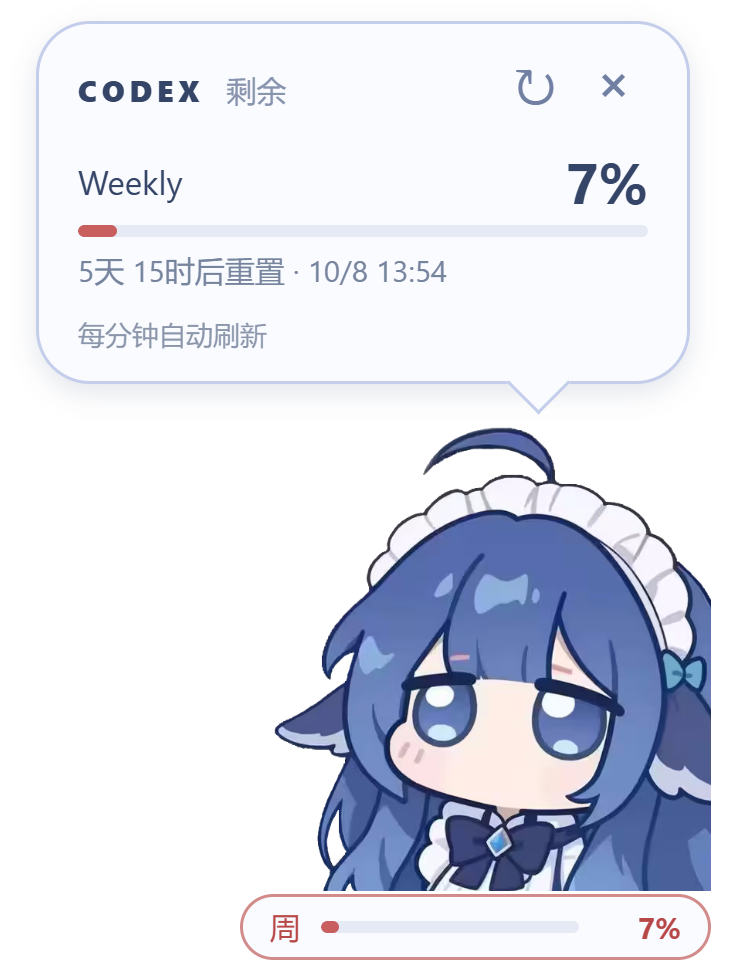
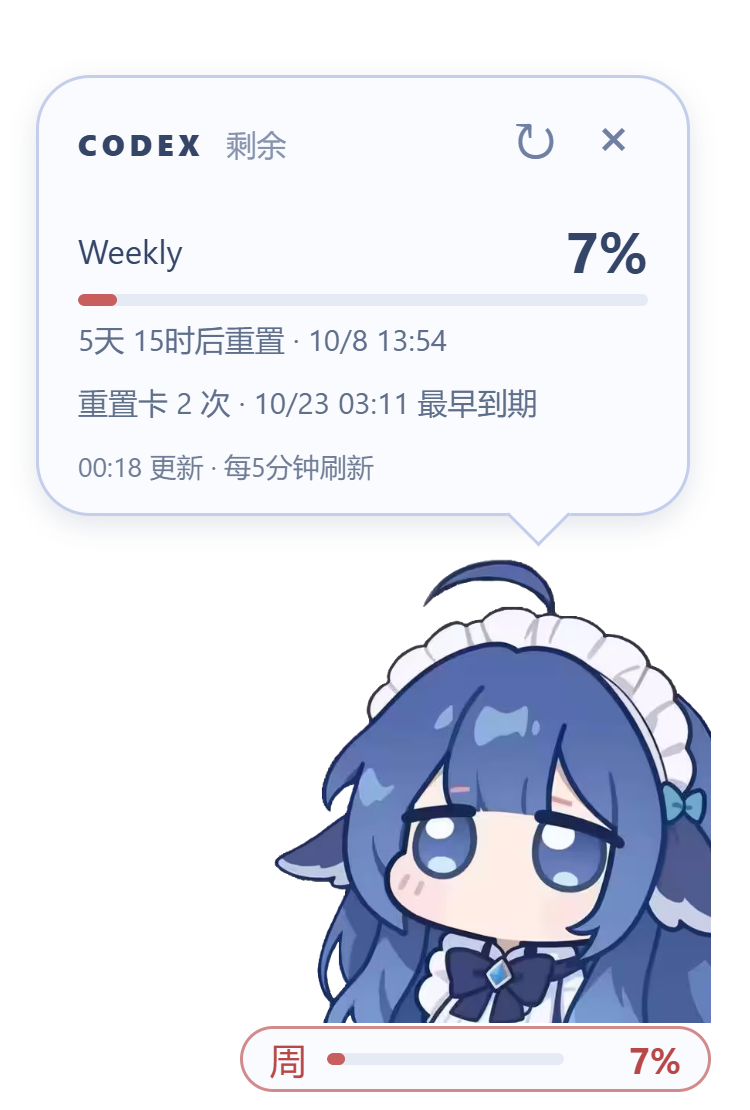
Clean repository and release v0.1.1 quota and display improvements

diff --git a/src/app.js b/src/app.js
@@ -2,10 +2,6 @@ import { percent, resetText, quotaTone } from './format.js';
 import { setupDesktop, syncRegions } from './desktop.js';
 const $ = id => document.getElementById(id);
 const api = window.__TAURI__;
-// Optional private/local artwork; the public repository ships the original SVG above.
-const localArtwork = new Image();
-localArtwork.onload = () => { $('pet').querySelector('img').src = localArtwork.src; };
-localArtwork.src = 'assets/whale.png';
 function applyScale(scale) {
   document.querySelector('main').style.transform = `scale(${scale})`;
   window.dispatchEvent(new Event('pet-scale'));
@@ -13,6 +9,8 @@ function applyScale(scale) {
 await api.event.listen('scale-changed', event => applyScale(event.payload));
 applyScale(await api.core.invoke('get_scale'));
 let snapshot = null;
+let credits = null;
+let creditsError = false;
 let busy = false;
 let error = '';
 
@@ -33,16 +31,34 @@ function render() {
   $('status').className = error ? 'error' : '';
   const updated = snapshot ? new Date(snapshot.updatedAt * 1000).toLocaleTimeString('zh-CN', {hour: '2-digit', minute: '2-digit'}) : '';
   $('status').textContent = error ? `${error}${updated ? ` · 保留 ${updated} 数据` : ''}`
-    : busy ? '正在刷新…' : `${updated} 更新 · 每分钟刷新`;
+    : busy ? '正在刷新…' : `${updated} 更新 · 每5分钟刷新`;
   syncRegions();
 }
-async function refresh() {
+function renderCredits() {
+  const row = $('credits');
+  row.hidden = !credits && !creditsError;
+  if (!credits) { row.textContent = '重置卡暂未读取，手动刷新可重试'; return; }
+  const dates = credits.expirations.map(value => new Date(typeof value === 'number' ? value * 1000 : value))
+    .filter(date => !Number.isNaN(date.getTime())).sort((a, b) => a - b);
+  const expiry = dates.length ? dates[0].toLocaleString('zh-CN', {month:'numeric', day:'numeric', hour:'2-digit', minute:'2-digit', hour12:false}) : '';
+  row.textContent = `重置卡 ${credits.count} 次${credits.count ? (expiry ? ` · ${expiry} 最早到期` : ' · 到期时间未提供') : ''}${creditsError ? '（上次数据）' : ''}`;
+  row.title = dates.map(date => date.toLocaleString('zh-CN')).join('\n');
+  syncRegions();
+}
+async function refreshCredits() {
+  try { credits = await api.core.invoke('get_reset_credits'); creditsError = false; }
+  catch { creditsError = true; }
+  renderCredits();
+}
+async function refresh(includeCredits = true) {
   if (busy) return;
   busy = true;
   $('refresh').disabled = true;
   render();
   try {
-    snapshot = await api.core.invoke('get_quota');
+    const [quotaResult] = await Promise.allSettled([api.core.invoke('get_quota'), includeCredits ? refreshCredits() : Promise.resolve()]);
+    if (quotaResult.status === 'rejected') throw quotaResult.reason;
+    snapshot = quotaResult.value;
     error = '';
   } catch (reason) {
     error = typeof reason === 'string' ? reason : '读取失败，稍后自动重试';
@@ -67,8 +83,8 @@ document.addEventListener('contextmenu', async event => {
 });
 api.event.listen('refresh-requested', refresh);
 api.event.listen('settings-error', event => { error = event.payload; render(); });
-window.addEventListener('online', refresh);
+window.addEventListener('online', () => refresh(false));
 setupDesktop();
 refresh();
-setInterval(refresh, 60_000);
+setInterval(() => refresh(false), 300_000);
 setInterval(render, 30_000);

diff --git a/src/styles.css b/src/styles.css
@@ -18,8 +18,8 @@ button:disabled { opacity: .4; cursor: wait; }
 strong { font-size: 19px; line-height: 23px; font-variant-numeric: tabular-nums; }
 .track { height: 4px; background: #e5eaf5; border-radius: 3px; margin: 3px 0 4px; overflow: hidden; }
 .track > div { height: 100%; width: 0; background: #6a83c0; border-radius: inherit; }
-.reset { font-size: 10px; color: #77849e; white-space: nowrap; }
-footer { margin-top: 8px; font-size: 9px; color: #8b96aa; line-height: 13px; overflow-wrap: anywhere; }
+.reset { font-size: 10px; color: #5f6e89; white-space: nowrap; }
+footer { margin-top: 8px; font-size: 9px; color: #707d94; line-height: 13px; overflow-wrap: anywhere; }
 footer.error { color: #a0644d; }
 #pet { position: absolute; bottom: 29px; right: 13px; width: 157px; height: 157px; cursor: grab; }
 #pet:active { cursor: grabbing; }
@@ -28,11 +28,15 @@ footer.error { color: #a0644d; }
 main.expanded .bubble { visibility: visible; pointer-events: auto; }
 .bubble::before { content: ''; position: absolute; height: 22px; bottom: -22px; left: 0; right: 0; }
 [hidden] { display: none !important; }
-#mini { position: absolute; bottom: 6px; right: 13px; display: flex; align-items: center; gap: 7px; width: 157px; height: 22px; padding: 3px 9px; background: #f9fbfff2; border: 1px solid #c4ceeb; border-radius: 11px; font-size: 10px; }
+#mini { position: absolute; bottom: 6px; right: 13px; display: flex; align-items: center; gap: 7px; width: 157px; height: 22px; padding: 3px 9px; background: #f9fbfff2; border: 1px solid #c4ceeb; border-radius: 11px; font-size: 12px; line-height: 14px; }
 #mini .track { flex: 1; margin: 0; }
-#mini b { font-size: 10px; min-width: 27px; text-align: right; }
+#mini b { font-size: 12px; min-width: 32px; text-align: right; }
 #mini.stale { color: #a0644d; border-color: #c18b70; }
 #mini[data-tone="low"] { color: #a66a20; border-color: #d5aa6c; }
 #mini[data-tone="low"] #mini-bar { background: #d0953f; }
 #mini[data-tone="critical"] { color: #b84848; border-color: #d28b8b; }
 #mini[data-tone="critical"] #mini-bar { background: #c85e5e; }
+
+#credits { margin-top: 7px; font-size: 10px; white-space: normal; }
+
+.details { max-height: 116px; overflow-y: auto; scrollbar-width: thin; }

diff --git a/src/index.html b/src/index.html
@@ -5,11 +5,14 @@
   <main>
     <section class="bubble" aria-label="Codex 剩余额度">
       <header><span class="brand">CODEX <span class="subtle">剩余</span></span><nav><button id="refresh" title="刷新额度" aria-label="刷新额度">↻</button><button id="close" title="隐藏桌宠（托盘可找回）" aria-label="隐藏桌宠">×</button></nav></header>
+      <div class="details">
       <div class="quota" id="short-row" hidden><div class="line"><span>5h</span><strong id="short-value">—</strong></div><div class="track"><div id="short-bar"></div></div><div class="reset" id="short-reset">等待额度</div></div>
       <div class="quota"><div class="line"><span>Weekly</span><strong id="weekly-value">—</strong></div><div class="track"><div id="weekly-bar"></div></div><div class="reset" id="weekly-reset">等待额度</div></div>
+      <div id="credits" class="reset" hidden></div>
       <footer id="status" role="status">正在读取…</footer>
+      </div>
     </section>
-    <div id="pet" title="拖动鲸鱼移动 · 双击刷新" aria-label="拖动鲸鱼移动桌宠"><img src="assets/whale.svg" alt="小鲸鱼" draggable="false"></div>
+    <div id="pet" title="拖动鲸鱼移动 · 双击刷新" aria-label="拖动鲸鱼移动桌宠"><img src="assets/whale.png" alt="小鲸鱼" draggable="false"></div>
     <div id="mini" title="周额度剩余"><span>周</span><div class="track"><div id="mini-bar"></div></div><b id="mini-value">—</b></div>
   </main>
   <script type="module" src="app.js"></script>

diff --git a/tests/desktop.test.js b/tests/desktop.test.js
@@ -18,7 +18,7 @@ test('hover delay cancels flyovers, bridges the gap and removes the upper hit ar
   globalThis.document = { getElementById: id => id === 'pet' ? pet : mini,
     querySelector: selector => selector === 'main' ? main : bubble };
   globalThis.ResizeObserver = class { observe() {} };
-  const { setupDesktop } = await import('../src/desktop.js');
+  const { setupDesktop, syncRegions } = await import('../src/desktop.js');
   setupDesktop();
   await Promise.resolve();
   assert.equal(calls.at(-1).length, 1);
@@ -33,6 +33,14 @@ test('hover delay cancels flyovers, bridges the gap and removes the upper hit ar
   await Promise.resolve();
   assert.equal(main.classList.contains('expanded'), true);
   assert.equal(calls.at(-1).length, 2);
+  const beforeRefresh = calls.length;
+  await syncRegions();
+  await syncRegions();
+  assert.equal(calls.length, beforeRefresh, 'unchanged quota renders must not reset the native clip');
+  bubble.rect.y -= 10;
+  bubble.rect.height += 10;
+  await syncRegions();
+  assert.equal(calls.length, beforeRefresh + 1, 'changed panel bounds must update the clip');
   pet.dispatchEvent(new Event('pointerleave'));
   t.mock.timers.tick(150);
   bubble.dispatchEvent(new Event('pointerenter'));

diff --git a/src/desktop.js b/src/desktop.js
@@ -2,6 +2,7 @@ const api = window.__TAURI__;
 let ready = false;
 let syncing = false;
 let pending = false;
+let lastRegions = '';
 
 export async function syncRegions() {
   if (!ready) return;
@@ -20,7 +21,11 @@ export async function syncRegions() {
         rects.push({ x: bubble.x - 5 * scale, y: bubble.y - 5 * scale,
           width: bubble.width + 10 * scale, height: bubble.height + 29 * scale });
       }
+      // Reapplying an unchanged native region can leave WebView2 edge artifacts.
+      const signature = JSON.stringify([window.devicePixelRatio, rects]);
+      if (signature === lastRegions) continue;
       await api.core.invoke('set_hit_regions', { rects });
+      lastRegions = signature;
     }
   } catch (error) {
     console.error('Window region update failed', error);

diff --git a/src-tauri/src/quota.rs b/src-tauri/src/quota.rs
@@ -41,7 +41,7 @@ fn parse(value: &Value, timestamp: u64) -> Result<Snapshot, String> {
     Ok(snapshot)
 }
 
-pub async fn fetch(client: &reqwest::Client) -> Result<Snapshot, String> {
+async fn fetch_value(client: &reqwest::Client, endpoint: &str) -> Result<Value, String> {
     let home = std::env::var_os("CODEX_HOME").map(PathBuf::from)
         .or_else(|| std::env::var_os("USERPROFILE").map(|p| PathBuf::from(p).join(".codex")))
         .ok_or("找不到 Codex 登录目录")?;
@@ -53,7 +53,7 @@ pub async fn fetch(client: &reqwest::Client) -> Result<Snapshot, String> {
     let tokens = auth.get("tokens").unwrap_or(&auth);
     let token = tokens.get("access_token").and_then(Value::as_str)
         .ok_or("请使用 ChatGPT 账户登录 Codex")?;
-    let mut request = client.get("https://chatgpt.com/backend-api/wham/usage")
+    let mut request = client.get(format!("https://chatgpt.com/backend-api/wham/{endpoint}"))
         .bearer_auth(token).header("Accept", "application/json")
         .header("originator", "Codex Desktop").header("OAI-Product-Sku", "CODEX");
     if let Some(id) = tokens.get("account_id").and_then(Value::as_str) {
@@ -73,13 +73,60 @@ pub async fn fetch(client: &reqwest::Client) -> Result<Snapshot, String> {
         bytes.extend_from_slice(&chunk);
     }
     let value = serde_json::from_slice(&bytes).map_err(|_| "额度服务响应格式异常")?;
-    parse(&value, now())
+    Ok(value)
+}
+
+pub async fn fetch(client: &reqwest::Client) -> Result<Snapshot, String> {
+    parse(&fetch_value(client, "usage").await?, now())
+}
+
+#[derive(Debug, Serialize)]
+#[serde(rename_all = "camelCase")]
+pub struct ResetCredits { count: u64, expirations: Vec<Value> }
+
+fn parse_credits(value: &Value) -> Result<ResetCredits, String> {
+    let count = ["available_count", "availableCount", "remaining", "count", "quantity"]
+        .iter().find_map(|key| value.get(key).and_then(Value::as_u64))
+        .ok_or("重置卡次数未提供")?;
+    fn visit(value: &Value, output: &mut Vec<Value>) {
+        match value {
+            Value::Array(items) => for item in items { visit(item, output); },
+            Value::Object(map) => {
+                if map.get("status").and_then(Value::as_str).is_some_and(|status| status != "available") { return; }
+                if let Some(time) = ["expires_at", "expiresAt", "expiration_time", "expirationTime", "expires"]
+                    .iter().find_map(|key| map.get(*key).filter(|v| v.is_string() || v.is_number())) {
+                    if !output.contains(time) { output.push(time.clone()); }
+                }
+                for key in ["credits", "reset_credits", "resetCredits", "available", "items", "grants"] {
+                    if let Some(child) = map.get(key) { visit(child, output); }
+                }
+            },
+            _ => {},
+        }
+    }
+    let mut expirations = Vec::new();
+    visit(value, &mut expirations);
+    Ok(ResetCredits { count, expirations })
+}
+
+pub async fn fetch_credits(client: &reqwest::Client) -> Result<ResetCredits, String> {
+    parse_credits(&fetch_value(client, "rate-limit-reset-credits").await?)
 }
 
 #[cfg(test)]
 mod tests {
     use super::*;
     use serde_json::json;
+    #[test]
+    fn reset_credits_preserve_zero_and_nested_expirations() {
+        let credits = parse_credits(&json!({"available_count": 2, "credits": [
+            {"expires_at": "2026-10-30T00:00:00Z"}, {"expires_at": 1800000000}, {"status": "redeemed", "expires_at": 1700000000}
+        ]})).unwrap();
+        assert_eq!(credits.count, 2);
+        assert_eq!(credits.expirations.len(), 2);
+        assert_eq!(parse_credits(&json!({"remaining": 0})).unwrap().count, 0);
+        assert!(parse_credits(&json!({})).is_err());
+    }
     #[test]
     fn maps_duration_and_preserves_small_percent() {
         let data = json!({"rate_limit": {

diff --git a/src-tauri/src/desktop.rs b/src-tauri/src/desktop.rs
@@ -3,6 +3,9 @@ use std::{path::PathBuf, time::Duration};
 use tauri::{Manager, PhysicalPosition};
 use windows_sys::Win32::Graphics::Gdi::{CreateRectRgn, CombineRgn, DeleteObject, SetWindowRgn, RGN_OR};
 
+use windows_sys::Win32::Graphics::Dwm::{DwmSetWindowAttribute, DWMWA_NCRENDERING_POLICY, DWMNCRP_DISABLED};
+use windows_sys::Win32::UI::WindowsAndMessaging::{GetWindowLongPtrW, SetWindowLongPtrW, SetWindowPos, GWL_STYLE, WS_CAPTION, WS_THICKFRAME, SWP_NOMOVE, SWP_NOSIZE, SWP_NOZORDER, SWP_NOACTIVATE, SWP_FRAMECHANGED};
+
 #[derive(Clone, Copy, Debug, PartialEq, Serialize, Deserialize)]
 pub struct Position { x: i32, y: i32 }
 
@@ -49,6 +52,18 @@ pub fn save_position(app: &tauri::AppHandle) {
 
 pub fn setup(app: &tauri::App) -> tauri::Result<()> {
     let window = app.get_webview_window("main").unwrap();
+    // The pet paints its own rounded outline. Native non-client painting can
+    // otherwise draw an activation line along the top of a custom window region.
+    unsafe {
+        let hwnd = window.hwnd()?.0 as _;
+        let policy = DWMNCRP_DISABLED;
+        DwmSetWindowAttribute(hwnd, DWMWA_NCRENDERING_POLICY as u32,
+            &policy as *const _ as _, std::mem::size_of_val(&policy) as u32);
+        let style = GetWindowLongPtrW(hwnd, GWL_STYLE);
+        SetWindowLongPtrW(hwnd, GWL_STYLE, style & !((WS_CAPTION | WS_THICKFRAME) as isize));
+        SetWindowPos(hwnd, std::ptr::null_mut(), 0, 0, 0, 0,
+            SWP_NOMOVE | SWP_NOSIZE | SWP_NOZORDER | SWP_NOACTIVATE | SWP_FRAMECHANGED);
+    }
     if let Some(pos) = std::fs::read(position_path(app.handle())?).ok()
         .and_then(|bytes| serde_json::from_slice::<Position>(&bytes).ok()) {
         window.set_position(PhysicalPosition::new(pos.x, pos.y))?;

diff --git a/src-tauri/src/main.rs b/src-tauri/src/main.rs
@@ -11,11 +11,16 @@ async fn get_quota(client: tauri::State<'_, reqwest::Client>) -> Result<quota::S
     quota::fetch(&client).await
 }
 
+#[tauri::command]
+async fn get_reset_credits(client: tauri::State<'_, reqwest::Client>) -> Result<quota::ResetCredits, String> {
+    quota::fetch_credits(&client).await
+}
+
 fn main() {
     let client = reqwest::Client::builder()
         .timeout(Duration::from_secs(15))
         .redirect(reqwest::redirect::Policy::none())
-        .user_agent("CodexPet/0.1.0")
+        .user_agent("Codex-QuotaWhale/0.1.1")
         .build().expect("HTTP client initialization failed");
     // Diagnostic mode uses the same request/parser as the UI and prints only quota fields.
     if std::env::args().any(|arg| arg == "--check-quota") {
@@ -53,7 +58,7 @@ fn main() {
             desktop::setup(app)?;
             Ok(())
         })
-        .invoke_handler(tauri::generate_handler![get_quota, menu::show_menu, menu::hide_pet, menu::get_scale, desktop::set_hit_regions])
+        .invoke_handler(tauri::generate_handler![get_quota, get_reset_credits, menu::show_menu, menu::hide_pet, menu::get_scale, desktop::set_hit_regions])
         .run(tauri::generate_context!())
         .expect("Codex Pet failed to start");
 }

diff --git a/licenses/ARTWORK.md b/licenses/ARTWORK.md
@@ -1,7 +1,9 @@
 # 美术素材来源
 
 - 应用及桌面图标：用户提供图片，来源标注为 [HutaoMu](https://www.xiaohongshu.com/user/profile/5cd964cd0000000011016bf5)，[原帖](https://www.xiaohongshu.com/explore/6aaa7e160000000026019bd1)。按原图生成不同尺寸，保留原图文字。
-- 本机桌宠人物：[DeepSeek-Balance-Whale-Widget](https://github.com/MeteorNOX/DeepSeek-Balance-Whale-Widget)。
+- 桌宠人物：[DeepSeek-Balance-Whale-Widget](https://github.com/MeteorNOX/DeepSeek-Balance-Whale-Widget)。
 
 以上人物素材不属于本项目代码的 MIT 许可，来源标注不代表获得再授权。
 
+
+桌宠文件 `src/assets/whale.png` 对应上游 `DSniang1.png`。上游将该素材按原样提供用于运行项目，未将其纳入 MIT，也未授予素材再许可；完整说明见上游 [PROVENANCE.md](https://github.com/MeteorNOX/DeepSeek-Balance-Whale-Widget/blob/main/PROVENANCE.md)。

diff --git a/README.md b/README.md
@@ -21,7 +21,7 @@
 
 ## 特点
 
-透明无边框、始终置顶，每分钟自动刷新。底部常驻周额度条，剩余不超过 25% 变橙，不超过 10% 变红，不发送通知。
+透明无边框、始终置顶，每 5 分钟自动刷新。底部常驻周额度条，剩余不超过 25% 变橙，不超过 10% 变红，不发送通知。重置卡剩余次数和到期时间显示在悬停详情中，仅启动或手动刷新时查询。
 
 支持四档缩放、位置记忆、防重复启动和多屏位置恢复。平时收起详情，透明区域不挡鼠标。
 
